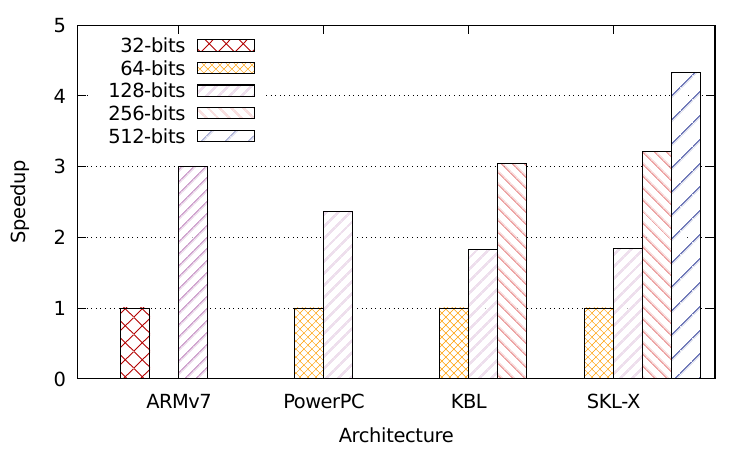
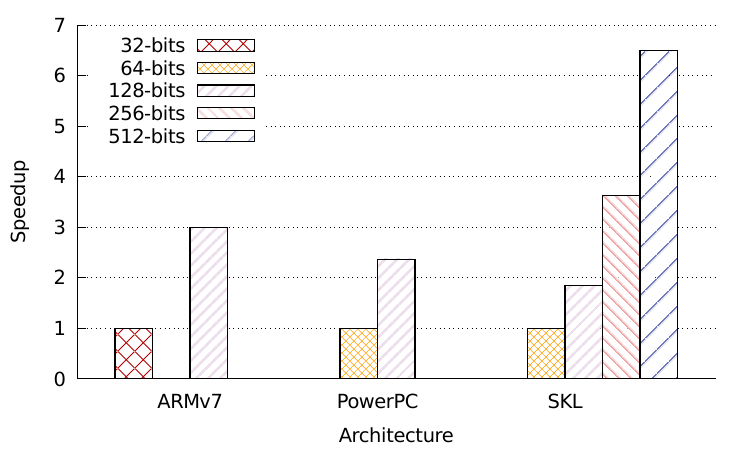
Finish future work post

diff --git a/_posts/2020-08-16-future-work.md b/_posts/2020-08-16-future-work.md
@@ -6,22 +6,25 @@ description:
 lang: en
 locale: en_US
 author: Darius Mercadier
-excerpt: 
-comments: false
-hidden: true
+excerpt: We propose in this post some additional ideas to improve Usuba, such as extending vslicing and hslicing to allow parallelism even on general purpose registers, combining vslicing and hslicing to achieve an "hybrid" mslicing (useful to implement ciphers like Chacha20 and Gimli), incorporating modes of operations in Usuba rather than focussing solely on primitives, targeting other SIMD architectures (e.g. Neon and AltiVec), achieving end-to-end correctness of Usubac's pipeline, and, finally, targetting GPUs.
+comments: true
+hidden: false
 ---
 
-Summary:
-
- - peephole optimizations on AVX512 using `vpternlog` for instance, cf Backend
- 
- - targetting assembly to optimize masked implementations on embedded devices. cf Tornado
-
- - hybrid/generalized mslicing, cf here
- 
- - mslicing on general purpose registers, cf here
- 
- - incorporate mode of operation, cf here
+Some future works were already discussed in previous posts:
+implementing peephole optimizations for AVX512 (_e.g._ using
+`vpternlog`) is discussed in the [Backend post]({{ site.baseurl }}{%
+post_url 2020-06-06-backend %}), and improving the performances on
+embedded devices (_e.g._ by targeting assembly rather than C) is
+discussed in the [Tornado post]({{ site.baseurl }}{% post_url
+2020-07-02-tornado %}). We propose in this post several additional
+ideas to improve Usuba: extending vslicing and hslicing to allow
+parallelism even on general purpose registers, combining vslicing and
+hslicing to achieve an "hybrid" mslicing (useful to implement ciphers
+like Chacha20 and Gimli), incorporating modes of operations in Usuba
+rather than focussing solely on primitives, targeting other SIMD
+architectures (_e.g._ Neon and AltiVec), achieving end-to-end
+correctness of Usubac's pipeline, and, finally, targetting GPUs.
  
 
 ## mslicing on general purpose registers
@@ -187,7 +190,10 @@ interleaving would remove that data hazards from `QR`, like Usubac's
 scheduling did for the vsliced implementation. The performances of
 this spill-free 3-interleaved implementation (but containing
 additional shuffles) would need to be compared to the classical
-vsliced one.
+vsliced one. As shown in the [evaluation]({{ site.baseurl }}{%
+post_url 2020-08-09-eval %}), the fastest implementation of Gimli on
+AVX2 uses this technique, and is faster than Usuba's vsliced
+implementation.
 
 We can see this technique as a generalization of mslicing, sharing
 similarities with both hslicing and vslicing. One way to incorpore it
@@ -273,6 +279,190 @@ existing optimizations of Usuba however would require more
 investigations.
 
 
+## AltiVec & Neon
+
+
+We focused our evaluation on Intel SIMD, because of their wide
+availability. Other architectures, such as AltiVec on PowerPC and Neon
+on ARM, offer similar instructions as SSE and AVX. In particular, both
+AltiVec and Neon provide 128-bit registers supporting 8/16/32/64-bit
+arithmetic and shift instructions (used in vslicing), shuffles (used
+in hslicing) and 128-bit bitwise instructions (used in all slicing
+types). As a proof-of-concept, we thus implemented AltiVec and Neon
+backends in Usubac.
+
+The figure below shows the speedup offered by vector extensions on a
+bitslice DES (including the transposition) on several architectures:
+SKL is our Intel Xeon W-2155 (with 64-bit general purpose registers,
+128-bit SSE, 256-bit AVX2, 512-bit AVX512), PowerPC is a PPC 970MP
+(with 64-bit general purpose registers and 128-bit AltiVec), and ARMv7
+is an ARMv7 Raspberry Pi3 (with 32-bit general purpose registers and
+128-bit Neon). The performances have been normalized on each
+architecture to evaluate the speedups of vector extensions rather than
+the raw performances.
+
+<p align="center" style="margin-top:30px;margin-bottom:30px;">
+<img style="height:auto;width:auto;max-width:80%" src="{{ site.baseurl }}/assets/images/blog/perfs-neon-altivec-intel.png">
+</p>
+
+The speedups offered by SIMD extensions vary from one architecture to
+the other. PowerPC's AltiVec offer 32-registers and 3-operand
+instructions, and thus expectedly perform better than Intel's SSE
+comparatively to a 64-bit baseline. ARM's Neon extensions only offer
+16 registers on the other hand, resulting in a similar speedup as
+Intel's AVX2 (note that ARMv7 has 32-bit registers whereas Skylake has
+64-bit registers).
+
+Still, the reality is more complex: Intel, ARM and PowerPC CPUs are
+very different, each with their own pipelines, their own execution
+units, their own instruction sets and their own latencies. We leave to
+future work to conduct a proper evaluation of bitslicing and mslicing
+on ARM and PowerPC, for which Usubac's Neon and AltiVec backend should
+prove useful.
+
+
+
+## Verification
+
+
+Bugs in implementations of cryptographic primitives can have
+devastating consequences [9,10,11,12]. To alleviate the risk of such
+human errors, several recent projects aiming at generating
+cryptographic codes have adopted approaches ensuring the functionnal
+correctness of the code they produce [6,7,8].
+
+The figure below illustrates how end-to-end functional correctness
+could be added to the Usubac compiler. 
+
+<p align="center" style="margin-top:30px;margin-bottom:30px;">
+<img style="height:auto;width:auto;max-width:80%" src="{{ site.baseurl }}/assets/images/blog/verif-usuba-pipeline.png">
+</p>
+
+We propose to prove the correctness of the front-end by formaly
+proving that each each normalization pass preserves the semantics of
+the input program. Several work already showed how to prove the
+correctness of normalization of dataflow languages [3,13,14].
+
+For the backend (the optimizations), using _translation validation_
+[4] might be more practical. The principle of translation validation
+is to check wether the program after optimizations has the same
+behavior as the program before the optimizations. This does not
+guarantee that the compiler is correct, but it does guarantee that the
+compilation of a given program is correct. However, translation
+validation leads to a more easily extensible compiler than prooving
+the correctness of each pass, since adding a new pass of optimization
+does not impact the verification and does not require a proof of
+correctness for this pass.
+
+We already implemented a proof-of-concept translation validation for
+the optimizations of the Usubac compiler. The principle is simple: we
+extract two SMT from the pipeline, one before the optimizations, and
+one after. We then feed them to the Z3 SMT solver [5], which checks
+wether they are equivalent. Extraction of SMT equations from an Usuba0
+program is straightforward thanks to our dataflow semantics: an Usuba0
+program _is_ a set of equations.
+
+
+The following Table reports the time (in second) that Z3 took to check
+the equivalence of some Usuba program before and after
+optimizations. Checking the equivalence between pre and
+post-optimization Usuba0 program took from 3 secondes to 6000 secondes
+to Z3. We have not analyzed why some ciphers are faster to verify for
+Z3. Code size may have an impact (AES's code is much larger than any
+other cipher we considered), but vslice Rectangle's code is much
+smaller than its bitslice code, yet verification is slower. In any
+case, our premilinary results show that this approach is practical and
+require little investement.
+
+
+<style type="text/css">
+.tg  {border-collapse:collapse;border-spacing:0;}
+.tg td{border-color:black;border-style:solid;border-width:1px;font-family:Arial, sans-serif;font-size:14px;
+  overflow:hidden;padding:10px 5px;word-break:normal;}
+.tg th{border-color:black;border-style:solid;border-width:1px;font-family:Arial, sans-serif;font-size:14px;
+  font-weight:normal;overflow:hidden;padding:10px 5px;word-break:normal;}
+.tg .tg-baqh{text-align:center;vertical-align:top}
+.tg .tg-amwm{font-weight:bold;text-align:center;vertical-align:top}
+</style>
+<center>
+<table class="tg" style="undefined;table-layout: fixed; width: 273px;margin-top:25px;margin-bottom:25px">
+<colgroup>
+<col style="width: 140px">
+<col style="width: 133px">
+</colgroup>
+<thead>
+  <tr>
+    <th class="tg-amwm">cipher</th>
+    <th class="tg-amwm">verification time</th>
+  </tr>
+</thead>
+<tbody>
+  <tr>
+    <td class="tg-baqh">Rectangle (vslice)</td>
+    <td class="tg-baqh">120 sec</td>
+  </tr>
+  <tr>
+    <td class="tg-baqh">Rectangle (bitslice)</td>
+    <td class="tg-baqh">51 sec</td>
+  </tr>
+  <tr>
+    <td class="tg-baqh">DES (bitslice)</td>
+    <td class="tg-baqh">3 sec</td>
+  </tr>
+  <tr>
+    <td class="tg-baqh">AES (bitslice)</td>
+    <td class="tg-baqh">6000 sec</td>
+  </tr>
+  <tr>
+    <td class="tg-baqh">Chacha20 (vslice)</td>
+    <td class="tg-baqh">3 sec</td>
+  </tr>
+  <tr>
+    <td class="tg-baqh">Serpent (vslice)</td>
+    <td class="tg-baqh">3 sec</td>
+  </tr>
+</tbody>
+</table>
+</center>
+
+For additional confidence in the translation validation approach, a
+certified SMT solver, like SMTCoq [17], could be used. (technically,
+SMTCoq is not an SMT solver, but rather checks the correctness of
+proof witnesses provided by SMT solvers)
+
+Finally, translation from Usuba0 to imperative code can be formally
+verified using existing techniques of the dataflow community [3]. We
+could either target CompCert [15,16], a certified C compiler that
+produces x86 assembly code. Or, if we decide to generate assembly code
+ourselves (for better performances, as shown in the [Tornado post]({{
+site.baseurl }}{% post_url 2020-07-02-tornado %})), we can draw
+inspiration from CompCert's proofs and to generate Jasmin assembly
+[7]. The Jasmin's certified compiler would then be used to generate
+x86 assembly code.
+
+
+## GPU
+
+A lot of implementations of cryptographic algorithms on graphics
+processing units (GPU) have been proposed in the last 15 years
+[18,19,20,21,22], including some implementation of bitslice DES
+[27,28,29] and bitslice AES [23,24,25,26,27]. Throughputs of more than
+1 Tbits per seconds are reported for AES in [25]. The applications of
+such high-throughput implementations include, among others, password
+cracking [30,31], random number generation [32,33] or disk encryption
+[34,35].
+
+Both bitslice [25,26,27] and mslice [23,24] implementations of AES
+have been demonstrated on GPUs. Additionally, Nishikawa _et al._ [24]
+showed that GPUs offer a large design space: computation is broke down
+into many threads, registers are a shared resource between threads, a
+limited amount of thread can be executed simultaneously... Nishikawa
+_et al._ [24] thus proposed an evaluation of the impact of some of
+those parameters on an msliced AES. Usuba could improve upon their
+work by automatically performing a more exhaustive evaluation of the
+GPU parameters, in order to produce highly efficient GPU code for any
+cipher.
+
 
 
 ---
@@ -281,3 +471,69 @@ investigations.
 [1] D. J. Bernstein, P. Schwabe, [New AES Software Speed Records](cr.yp.to/aes-speed/aesspeed-20080908.pdf), INDOCRYPT, 2008.
 
 [2] J. H. Park, D. H. Lee, [FACE: Fast AES CTR mode Encryption Techniques based on the Reuse of Repetitive Data](https://tches.iacr.org/index.php/TCHES/article/download/7283/6460), TCHES, 2018.
+ 
+[3] T. Bourke _et al._, [A Formally Verified Compiler for Lustre](https://hal.inria.fr/hal-01512286/document), PLDI, 2017.
+
+[4] A. Pnueli _et al._, [Translation validation](https://link.springer.com/content/pdf/10.1007/BFb0054170.pdf), TACAS, 1998.
+
+[5] L. De Moura, N. Bjørner, [Z3: An efficient SMT solver](https://link.springer.com/content/pdf/10.1007/978-3-540-78800-3_24.pdf), TACAS, 2008.
+
+[6] J. K. Zinzindohoué _et al._, [HACL*: A verified modern cryptographic library](https://eprint.iacr.org/2017/536.pdf), ACM Conference on Computer and Communications Security, 2017.
+
+[7] J. B. Almeida _et al._, [Jasmin: High-Assurance and High-Speed Cryptography](https://acmccs.github.io/papers/p1807-almeidaA.pdf), CCS, 17.
+
+[8] B. Bond _et al._, [Vale: Verifying High-Performance Cryptographic Assembly Code](https://www.usenix.org/system/files/conference/usenixsecurity17/sec17-bond.pdf), USENIX Security Symposium, 2017.
+
+[9] B. B. Brumley _et al._, [Practical realisation and elimination of an ECC-related software bug attack](https://eprint.iacr.org/2011/633.pdf), CT-RSA, 2012.
+
+[10] S. Gueron, V. Krasnov, [The fragility of AES-GCM authentication algorithm](https://eprint.iacr.org/2013/157.pdf), 2013.
+
+[11] H. Boeck, [Wrong results with Poly1305 functions](https://mta.openssl.org/pipermail/openssl-dev/2016-March/006413.html), 2016.
+
+[12] D. Benjamin, [poly1305-x86.pl produces incorrect output](https://mta.openssl.org/pipermail/openssl-dev/2016-March/006293.html), 2016.
+
+[13] C. Auger _et al._, [A Formalization and Proof of a Modular Lustre Compiler](https://pdfs.semanticscholar.org/86e0/df88edcd0eda0bf38ccd41e537cb7154173a.pdf), 2012.
+
+[14] C. Auger, [Compilation certifiée de SCADE/LUSTRE](https://tel.archives-ouvertes.fr/tel-00818169/file/VD2_AUGER_CEDRIC_07022013.pdf), 2013.
+
+[15] S. Blazy _et al._, [Formal verification of a C compiler front-end](https://hal.inria.fr/inria-00106401/document), FM, 2006.
+
+[16] X. Leroy, [Formal verification of a realistic compiler](https://dl.acm.org/doi/pdf/10.1145/1538788.1538814?casa_token=9OL3C95ukf0AAAAA:R0blUDnz0JJNE_BSlTEUvDMW353jwM5BY8-zNCwGuE_MUfsekOC6YL4CbTuobi4Dwyt9k2mLaezO), Communications of the ACM, 2009.
+
+[17] M. Armand _et al._, [A modular integration of SAT/SMT solvers to Coq through proof witnesses](https://hal.inria.fr/file/index/docid/639130/filename/cpp11.pdf), CPP, 2011.
+
+[18] S. A. Manavski _et al._, [CUDA compatible GPU as an efficient hardware accelerator for AES cryptography](http://www.manavski.com/downloads/PID505889.pdf), ICSPC, 2007.
+
+[19] R. Szerwinski, T. Gïneysu, [Exploiting the Power of GPUs for Asymmetric Cryptography](https://link.springer.com/content/pdf/10.1007/978-3-540-85053-3_6.pdf), CHES, 2008.
+
+[20] D. A. Osvik _et al._, [Fast Software AES Encryption](https://link.springer.com/content/pdf/10.1007/978-3-642-13858-4_5.pdf), FSE, 2010.
+
+[21] O. Harrison, J. Waldron, [Efficient Acceleration of Asymmetric Cryptography on Graphics Hardware](https://nslab.kaist.ac.kr/courses/2015/cs710/paperlist/2-2.pdf), AFRICACRYPT, 2009.
+
+[22] D. Cook _et al._, [CryptoGraphics: Secret key cryptography using graphics cards](https://users.dcc.uchile.cl/~voyanede/cc7515/lectura/gc_ctrsa.pdf), CT-RSA, 2005.
+
+[23] R. K. Kim _et al._, [Bitsliced High-Performance AES-ECB on GPUs](http://citeseerx.ist.psu.edu/viewdoc/download?doi=10.1.1.696.781&rep=rep1&type=pdf), The New Codebreakers, 2016.
+
+[24] N. Nishikawa _et al._, [Implementation of Bitsliced AES Encryption on CUDA-Enabled GPU](https://link.springer.com/chapter/10.1007/978-3-319-64701-2_20), NSS, 2017.
+
+[25] O. Hajihassani _et al._, [Fast AES Implementation: A High-throughput Bitsliced Approach](https://ieeexplore.ieee.org/abstract/document/8691582/), IEEE Transactions on Parallel and Distributed Systems, 2019.
+
+[26] B. Peccerillo _et al._, [Parallel bitsliced AES through PHAST: a single-source high-performance library for multi-cores and GPUs](https://link.springer.com/article/10.1007/s13389-017-0175-4), Journal of Cryptographic Engineering, 2019.
+
+[27] J. Yang, J. Goodman, [Symmetric Key Cryptography on Modern Graphics Hardware](https://link.springer.com/content/pdf/10.1007/978-3-540-76900-2_15.pdf), ASIACRYPT, 2007.
+
+[28] N. Dennier _et al._, [Improved Software Implementation of DES Using CUDA and OpenCL](https://core.ac.uk/download/pdf/13749299.pdf), 2011.
+
+[29] G. Agosta _et al._, [Record setting software implementation of DES using CUDA](https://ieeexplore.ieee.org/abstract/document/5501641), 2010.
+
+[30] L. Sprengers, [GPU-based password cracking](https://www.ru.nl/publish/pages/769526/thesis.pdf), 2011.
+
+[31] M. Bakker, R. Van Der Jagt, [GPU-based password cracking](https://www.os3.nl/_media/2009-2010/courses/rp1/p34_report.pdf), 2010.
+
+[32] S.K. Monfared _et al._, [High-performance Cryptographically Secure Pseudo-random Number Generation via Bitslicing](https://arxiv.org/pdf/1909.04750.pdf), 2019.
+
+[33] W.K. Lee _et al._, [Fast implementation of block ciphers and PRNGs in Maxwell GPU architecture](https://link.springer.com/article/10.1007%2Fs10586-016-0536-2), Cluster Computing, 2016.
+
+[34] G. Agosta _et al._, [Fast disk encryption through GPGPU acceleration](http://home.deib.polimi.it/barenghi/files/PDCAT2009.pdf), PDCAT, 2009.
+
+[35] W. Sun _et al._, [GPUstore Harnessing GPU Computing for Storage Systems in the OS Kernel](https://dl.acm.org/doi/pdf/10.1145/2367589.2367595?casa_token=0FG9id7-ImQAAAAA:vFavPNGvp07IT9jYNW72EIigUMyiUbvwLEWg76YY-rT9B98LZ6I3tn9ubw39KfguCRkL4aMTyDbf), SYSTOR, 2012.
